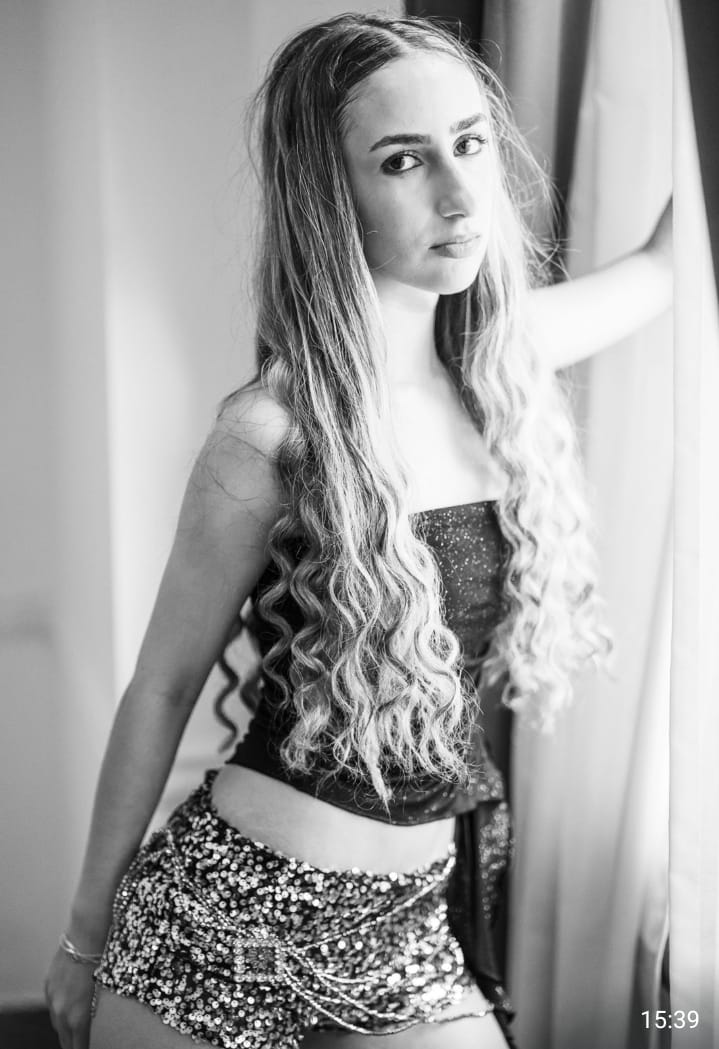
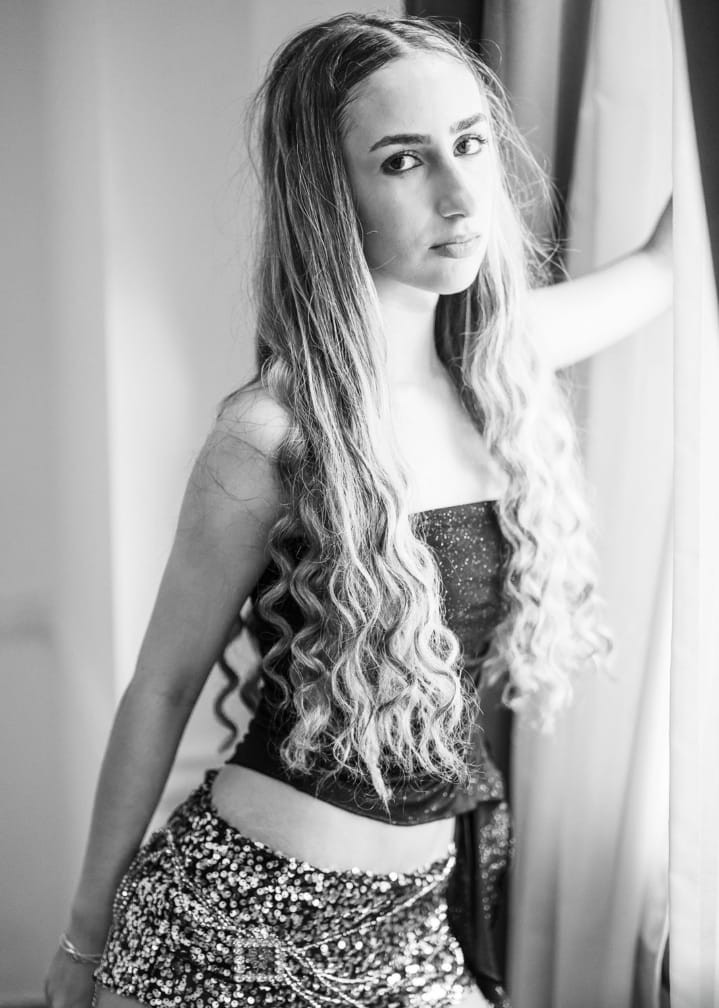
Add files via upload

diff --git a/modelo/jazmin03042026/index.html b/modelo/jazmin03042026/index.html
@@ -34,6 +34,7 @@
     <link rel="stylesheet" href="./Mis 15 Años_files/styles.css">
     <link rel="stylesheet" href="./Mis 15 Años_files/mediaQueries.css">
     <link rel="stylesheet" href="./Mis 15 Años_files/aos.css">
+    
 </head>
 
 <body data-aos-easing="ease" data-aos-duration="400" data-aos-delay="0">
@@ -141,7 +142,12 @@
             <img src="assets/imagenes/vectorTOP.webp" alt="" class="name__img" data-aos="flip-right">
 
         </section> -->
-
+  <!-- separador: -->
+        <img class="img__separador aos-init aos-animate" src="./Mis 15 Años_files/separador.png" alt="" data-aos="flip-right">
+        <!-- separador: -->
+<section class="fotos-distribuidas contenedor" data-aos="fade-up">
+  <img src="./Mis 15 Años_files/1.jpeg" class="foto-suave" alt="">
+</section>
         <section class="temporizador contenedor block glow aos-init aos-animate" id="temporizador" data-aos="fade-up">
             <h3 class="title title--tempo">Falta muy poquito</h3>
             <div class="timer">
@@ -189,8 +195,12 @@ mi gran noche."
         <img class="img__separador aos-init aos-animate" src="./Mis 15 Años_files/separador.png" alt="" data-aos="flip-right">
         <!-- separador: -->
 
-
-
+<section class="fotos-distribuidas contenedor" data-aos="fade-up">
+  <img src="./Mis 15 Años_files/2.jpeg" class="foto-suave" alt="">
+</section>
+  <!-- separador: -->
+        <img class="img__separador aos-init aos-animate" src="./Mis 15 Años_files/separador.png" alt="" data-aos="flip-right">
+        <!-- separador: -->
 
         <section class="donde" id="donde">
 
@@ -199,7 +209,7 @@ mi gran noche."
                      <article class="partedos contenedor block glow aos-init aos-animate" data-aos="fade-left">
                     <h3 class="title title--active">Fiesta</h3>
                     <p class="parrafo parrafo--donde">
-                        VIERNES, 03 DE ABRIL DE 2026<br>Jano's Hipódromo de San Isidro<br>Av Bernabé Marquez 504<br>21:00hs               
+                        VIERNES, 03 DE ABRIL 2026<br>Jano's<br>Hipódromo de San Isidro<br>Av Bernabé Marquez 504<br>21:00hs               
                     </p>
                     <img src="./Mis 15 Años_files/salon.png" alt="" class="donde__img">
                     <a class="boton__cta" href="https://maps.app.goo.gl/f7swS16Ch7vpKz9DA">Ver ubicación</a>
@@ -210,60 +220,19 @@ mi gran noche."
         </section>
 
 
-        <section class="swiper mySwiper aos-init swiper-cards swiper-3d swiper-initialized swiper-horizontal swiper-watch-progress aos-animate" id="fotos" data-aos="fade-up">
-                   <h3 class="title title--fotos aos-init aos-animate" data-aos="fade-up">Mis Fotos</h3>
-            <h5 class="parrafo parrafo--fotos aos-init aos-animate" data-aos="fade-right">Desliza <br> (ó toca para ampliar)</h5>
-            <div class="swiper-wrapper" id="swiper-wrapper-c98e6d80d14a2229" aria-live="polite" style="cursor: grab; transition-duration: 0ms; transition-delay: 0ms; transform: translateX(0px);">
-                <div class="swiper-slide swiper-slide-visible swiper-slide-fully-visible swiper-slide-active" role="group" aria-label="1 / 3" style="width: 400px; z-index: 3; transform: translate3d(0px, 0px, 0px) rotateZ(0deg) scale(1);">
-                    <a href="./Mis 15 Años_files/1.jpeg" class="fancybox" data-fancybox="gallery">
-                        <img class="swiper__img" src="./Mis 15 Años_files/1.jpeg" alt="">
-                    </a>
-                <div class="swiper-slide-shadow swiper-slide-shadow-cards" style="opacity: 0;"></div></div>
-                <div class="swiper-slide swiper-slide-next" role="group" aria-label="2 / 3" style="width: 400px; z-index: 2; transform: translate3d(calc(7.25% - 400px), 0px, -100px) rotateZ(2deg) scale(1);">
-                    <a href="./Mis 15 Años_files/2.jpeg" class="fancybox" data-fancybox="gallery">
-                        <img class="swiper__img" src="./Mis 15 Años_files/2.jpeg" alt="">
-                    </a>
-                <div class="swiper-slide-shadow swiper-slide-shadow-cards" style="opacity: 1;"></div></div>
-                <div class="swiper-slide" role="group" aria-label="3 / 3" style="width: 400px; z-index: 1; transform: translate3d(calc(13% - 800px), 0px, -200px) rotateZ(4deg) scale(1);">
-                    <a href="./Mis 15 Años_files/3.jpeg" class="fancybox" data-fancybox="gallery">
-                        <img class="swiper__img" src="./Mis 15 Años_files/3.jpeg" alt="">
-                    </a>
-                <div class="swiper-slide-shadow swiper-slide-shadow-cards" style="opacity: 1;"></div></div>
-                
-                                <div class="swiper-slide" role="group" aria-label="3 / 3" style="width: 400px; z-index: 1; transform: translate3d(calc(13% - 800px), 0px, -200px) rotateZ(4deg) scale(1);">
-                    <a href="./Mis 15 Años_files/4.jpeg" class="fancybox" data-fancybox="gallery">
-                        <img class="swiper__img" src="./Mis 15 Años_files/4.jpeg" alt="">
-                    </a>
-                <div class="swiper-slide-shadow swiper-slide-shadow-cards" style="opacity: 1;"></div></div>
-                                <div class="swiper-slide" role="group" aria-label="3 / 3" style="width: 400px; z-index: 1; transform: translate3d(calc(13% - 800px), 0px, -200px) rotateZ(4deg) scale(1);">
-                    <a href="./Mis 15 Años_files/5.jpeg" class="fancybox" data-fancybox="gallery">
-                        <img class="swiper__img" src="./Mis 15 Años_files/5.jpeg" alt="">
-                    </a>
-                <div class="swiper-slide-shadow swiper-slide-shadow-cards" style="opacity: 1;"></div></div>
-                                <div class="swiper-slide" role="group" aria-label="3 / 3" style="width: 400px; z-index: 1; transform: translate3d(calc(13% - 800px), 0px, -200px) rotateZ(4deg) scale(1);">
-                    <a href="./Mis 15 Años_files/6.jpeg" class="fancybox" data-fancybox="gallery">
-                        <img class="swiper__img" src="./Mis 15 Años_files/6.jpeg" alt="">
-                    </a>
-                <div class="swiper-slide-shadow swiper-slide-shadow-cards" style="opacity: 1;"></div></div>
-                                <div class="swiper-slide" role="group" aria-label="3 / 3" style="width: 400px; z-index: 1; transform: translate3d(calc(13% - 800px), 0px, -200px) rotateZ(4deg) scale(1);">
-                    <a href="./Mis 15 Años_files/7.jpeg" class="fancybox" data-fancybox="gallery">
-                        <img class="swiper__img" src="./Mis 15 Años_files/7.jpeg" alt="">
-                    </a>
-                <div class="swiper-slide-shadow swiper-slide-shadow-cards" style="opacity: 1;"></div></div>
-
-                <!-- Agrega más swiper-slide según sea necesario -->
-            </div>
-        <span class="swiper-notification" aria-live="assertive" aria-atomic="true"></span>
-    
-    <span class="swiper-notification" aria-live="assertive" aria-atomic="true"></span></section>
-
+       
 
 
 
         <!-- separador: -->
         <img class="img__separador aos-init aos-animate" src="./Mis 15 Años_files/separador.png" alt="" data-aos="flip-right">
         <!-- separador: -->
-
+<section class="fotos-distribuidas contenedor" data-aos="fade-up">
+  <img src="./Mis 15 Años_files/3.jpeg" class="foto-suave" alt="">
+</section>
+  <!-- separador: -->
+        <img class="img__separador aos-init aos-animate" src="./Mis 15 Años_files/separador.png" alt="" data-aos="flip-right">
+        <!-- separador: -->
 <!-- ITINERARIO
         <section class="itinerarios aos-init aos-animate" data-aos="fade-up">
             <h3 class="itinerario__aviso">Sábado 29 de Noviembre del 2025</h3>
@@ -346,7 +315,12 @@ mi gran noche."
             </div>
 
         </section>
-
+  <!-- separador: -->
+        <img class="img__separador aos-init aos-animate" src="./Mis 15 Años_files/separador.png" alt="" data-aos="flip-right">
+        <!-- separador: -->
+<section class="fotos-distribuidas contenedor" data-aos="fade-up">
+  <img src="./Mis 15 Años_files/4.jpeg" class="foto-suave" alt="">
+</section>
 
         <!-- separador: -->
         <img class="img__separador aos-init aos-animate" src="./Mis 15 Años_files/separador.png" alt="" data-aos="flip-right">
@@ -425,7 +399,12 @@ podés transferirme
         </section>
 
 
-
+  <!-- separador: -->
+        <img class="img__separador aos-init aos-animate" src="./Mis 15 Años_files/separador.png" alt="" data-aos="flip-right">
+        <!-- separador: -->
+<section class="fotos-distribuidas contenedor" data-aos="fade-up">
+  <img src="./Mis 15 Años_files/5.jpeg" class="foto-suave" alt="">
+</section>
         <!-- <section class="agradecimiento block glow contenedor" data-aos="fade-up">
 
             <div class="agradecimiento__contenedor">
@@ -589,7 +568,12 @@ podés transferirme
 
         </section>
 
-
+  <!-- separador: -->
+        <img class="img__separador aos-init aos-animate" src="./Mis 15 Años_files/separador.png" alt="" data-aos="flip-right">
+        <!-- separador: -->
+<section class="fotos-distribuidas contenedor" data-aos="fade-up">
+  <img src="./Mis 15 Años_files/6.jpeg" class="foto-suave" alt="">
+</section>
 
         <!-- separador: -->
         <img class="img__separador aos-init" src="./Mis 15 Años_files/separador.png" alt="" data-aos="flip-right">
@@ -629,6 +613,12 @@ podés transferirme
                 </div>
             </div>
         </section>
+          <!-- separador: -->
+        <img class="img__separador aos-init aos-animate" src="./Mis 15 Años_files/separador.png" alt="" data-aos="flip-right">
+        <!-- separador: -->
+<section class="fotos-distribuidas contenedor" data-aos="fade-up">
+  <img src="./Mis 15 Años_files/7.jpeg" class="foto-suave" alt="">
+</section>
           <!-- separador: -->
         <img class="img__separador aos-init" src="./Mis 15 Años_files/separador.png" alt="" data-aos="flip-right">
         <!-- separador: -->

diff --git a/modelo/jazmin03042026/Mis 15 Años_files/styles.css b/modelo/jazmin03042026/Mis 15 Años_files/styles.css
@@ -132,7 +132,18 @@
     border: 2px inset #fff;
     cursor: pointer;
 }
+.fotos-distribuidas {
+  display: flex;
+  justify-content: center;
+  margin: 40px 0;
+}
 
+.foto-suave {
+  width: 85%;
+  max-width: 420px;
+  border-radius: 20px;
+  box-shadow: 0 10px 30px rgba(0,0,0,.25);
+}
 
 .title {
     font-family: var(--font-imperial);
